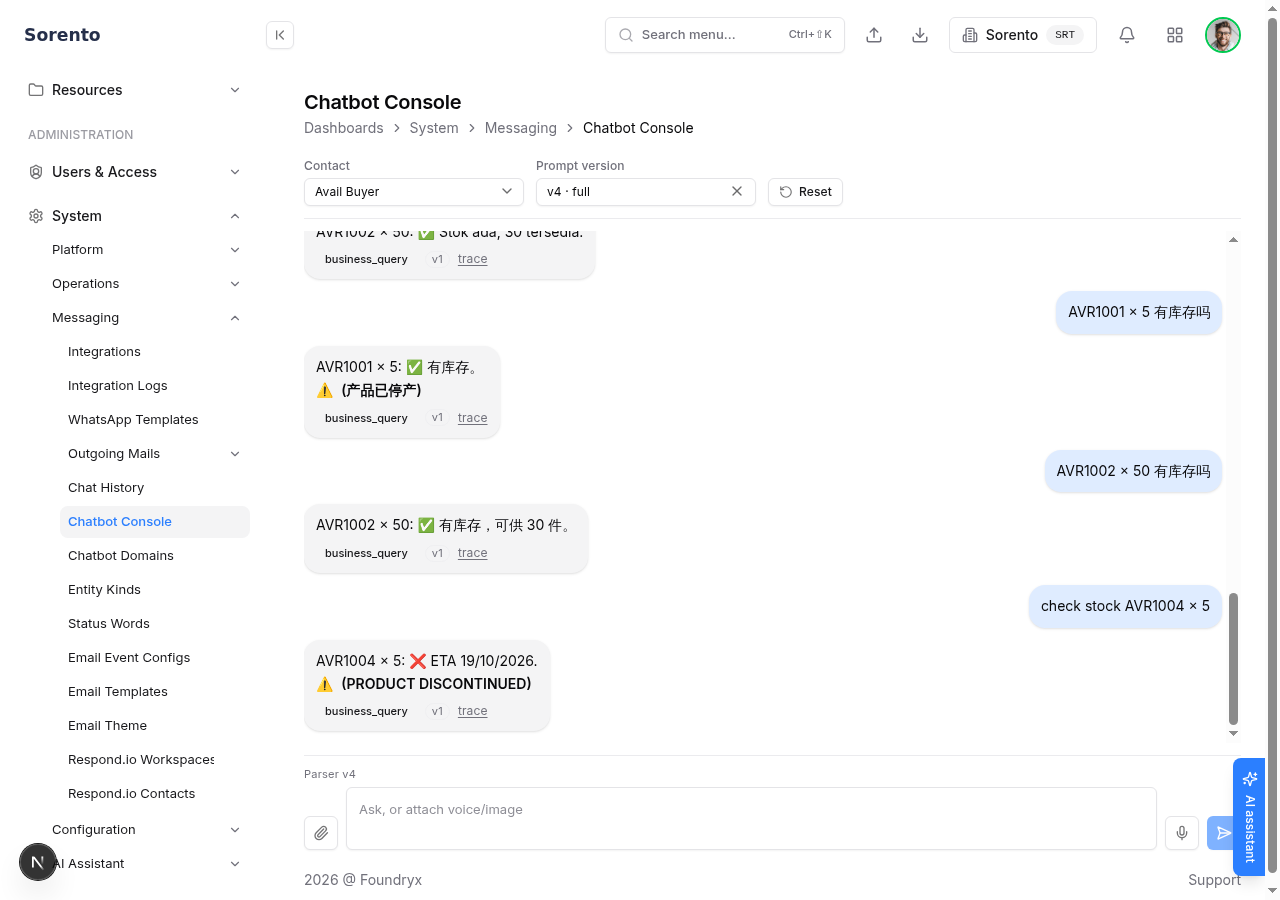
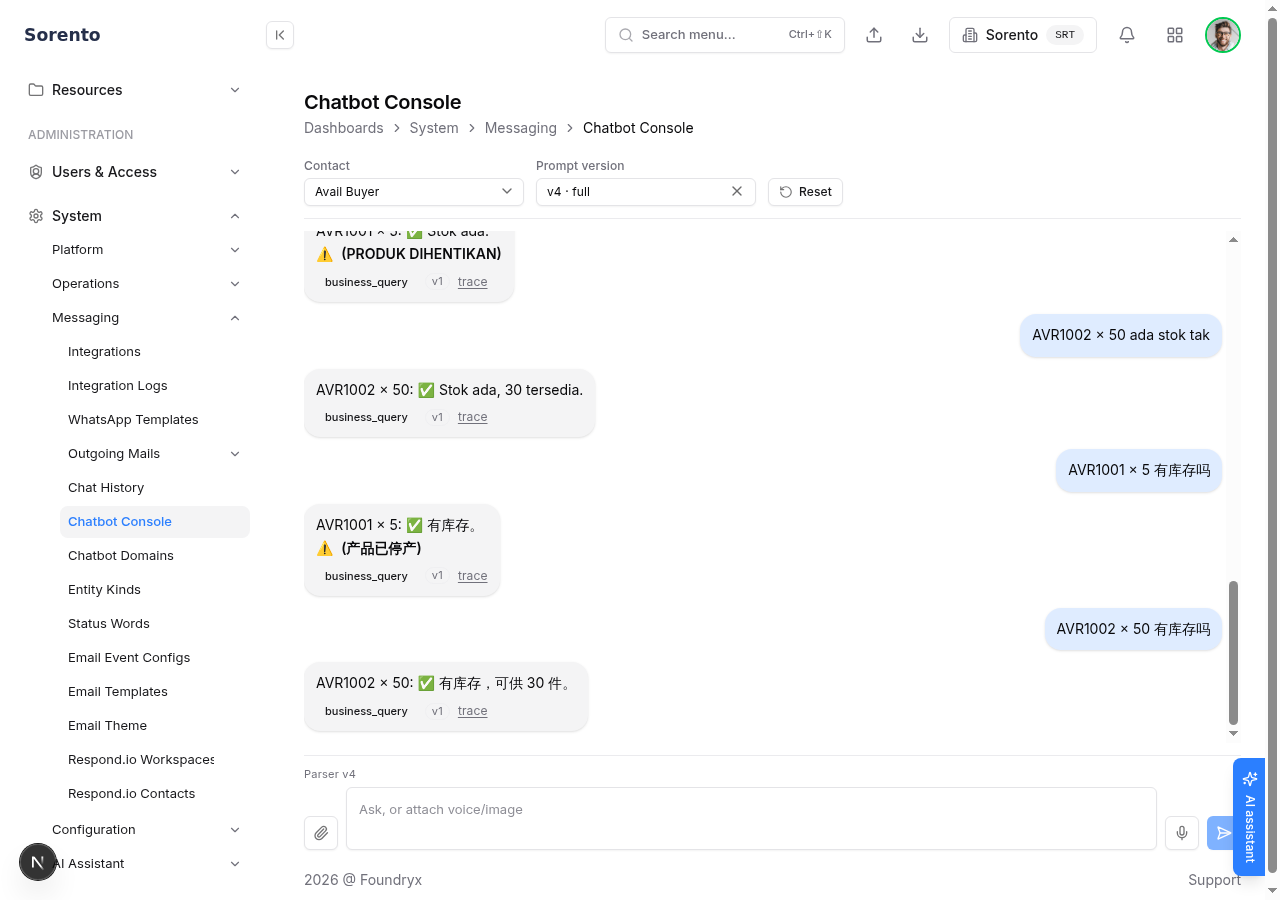
docs(chatbot): AVAIL-RENDER browser pass on the merged head, hand test wording (AVAIL-RENDER)
Claude-Session: https://claude.ai/code/session_01TfBrN9akieXSQBMsbKtYD8

diff --git a/laneboard/scripts/1493.md b/laneboard/scripts/1493.md
@@ -13,7 +13,8 @@ crew test copy
    locations hold stock, and open the chat console as that contact.
 2. Pick four products the contact can see: A in stock with more on hand than you will ask and a
    category max above the ask; B in stock with fewer on hand than you will ask (within the max);
-   C with no stock, no shipment; D with no stock and an inbound shipment with an ETA.
+   C with no stock, no shipment; D with no stock and an inbound shipment that has a packing list
+   and an ETA.
 3. On the Products page mark A and D "Discontinued" (is_discontinued on); leave B and C live.
 4. Note the on-hand of B (call it N).
 
@@ -25,16 +26,16 @@ crew test copy
 4. Send `check stock <D> x 5`.
 5. Send `ETA <D> and <C>`.
 6. Open Customer asks (the stock ask rows) for this contact.
-7. Switch the contact's chat language to Malay (ms) and repeat step 1 and step 2.
-8. Switch the contact's chat language to Chinese (zh) and repeat step 1.
+7. Send `<A> x 5 ada stok tak` and `<B> x <N + 10> ada stok tak` (Malay reply).
+8. Send `<A> x 5 有库存吗` (Chinese reply).
 
 ## Expected
 
-1. Two lines: `<A> x 5: ✅ Got stock.` then `⚠  *(PRODUCT DISCONTINUED)*` directly under it. No "Please refer to your salesman." anywhere in the reply.
+1. Two lines: `<A> x 5: ✅ Got stock.` then `⚠  (PRODUCT DISCONTINUED)` directly under it. No "Please refer to your salesman." anywhere in the reply.
 2. One line: `<B> x <N + 10>: ✅ Got stock, <N> available.` No refer, no marker.
 3. `<C> x 5: ❌ No stock and no incoming. Please refer to your salesman.` No marker.
-4. `<D> x 5: ❌ ETA dd/mm/yyyy.` then `⚠  *(PRODUCT DISCONTINUED)*` under it. No refer.
-5. `<D>: ✅ ETA dd/mm/yyyy` then `⚠  *(PRODUCT DISCONTINUED)*`, a blank line, `<C>: No ETA`, a blank line, `Please refer to your salesman.` (once).
+4. `<D> x 5: ❌ ETA dd/mm/yyyy.` then `⚠  (PRODUCT DISCONTINUED)` under it. No refer.
+5. `<D>: ✅ ETA dd/mm/yyyy` then `⚠  (PRODUCT DISCONTINUED)`, a blank line, `<C>: No ETA`, a blank line, `Please refer to your salesman.` (once).
 6. Rows exist for step 3 (no_incoming) only among steps 1 to 4; no row for step 1 or step 2 (in stock, not referred) and none for step 4 (incoming). The salesman notification (if the contact's toggle is on) went out for step 3 only.
-7. Step 1 reads `<A> x 5: ✅ Stok ada.` with `⚠  *(PRODUK DIHENTIKAN)*` under it; step 2 reads `<B> x <N + 10>: ✅ Stok ada, <N> tersedia.`
-8. Step 1 reads `<A> x 5: ✅ 有库存。` with `⚠  *(产品已停产)*` under it.
+7. `<A> x 5: ✅ Stok ada.` with `⚠  (PRODUK DIHENTIKAN)` under it; `<B> x <N + 10>: ✅ Stok ada, <N> tersedia.`
+8. `<A> x 5: ✅ 有库存。` with `⚠  (产品已停产)` under it.

diff --git a/documentation/plans/chatbot/evidence/avail-render/README.md b/documentation/plans/chatbot/evidence/avail-render/README.md
@@ -1,8 +1,9 @@
 # AVAIL-RENDER cloud browser pass (5 Oct 2026)
 
-Code under test: branch `crew/avail-render`, PR #1493, head at the time of the pass 8cef8202
-plus the uncommitted harness in this folder (the commit that adds this folder carries the
-same code plus one test-pin fix, `tests/test_stock_visibility_policy.py`).
+Code under test: branch `crew/avail-render`, PR #1493, head a9b2e9af (the lane merged with
+origin/main 3a231689, WA-MSG-TRIM). A first run on a075c4a6 gave the same ten results; the
+crew asked for the pass on the merged head because that merge touched `label_catalog.py` and
+`inventory_service.py`.
 
 ## Stack (all inside the cloud sandbox)
 
@@ -45,13 +46,13 @@ renders the WhatsApp `*(...)*` bold as bold, so the marker reads `⚠  (PRODU
 | 9 | `AVR1001 x 5 有库存吗` (zh) | `✅ 有库存。` + zh marker | `AVR1001 x 5: ✅ 有库存。` / `⚠  (产品已停产)` | PASS |
 | 10 | `AVR1002 x 50 有库存吗` (zh) | `✅ 有库存，可供 30 件。` | `AVR1002 x 50: ✅ 有库存，可供 30 件。` | PASS |
 
-One seed defect found on the way, not a product one: the first run of case 5 answered
+One seed defect found on the first run, not a product one: case 5 answered
 `❌ No stock and no incoming.` because the seeded shipment had no packing list, and the stock
 ask's R5 read counts only a shipment that carries one (`incoming_stock_service.
 earliest_packing_list_shipment`); the ETA ask (case 6) reads every shipment and already showed
-the date. The seed now attaches one and case 5 was re-run.
+the date. The seed attaches one now (`seed_avail.py`).
 
-Screenshots: `console-thread-1280.png`, `console-thread-375.png` (the thread after case 10
-and the re-run of case 5).
+Screenshots: `console-thread-1280.png`, `console-thread-375.png` (the thread after case 10 on
+a9b2e9af).
 
-Raw transcript of the pass: `browser-pass.txt`.
+Raw transcript of the pass on a9b2e9af: `browser-pass.txt`.
